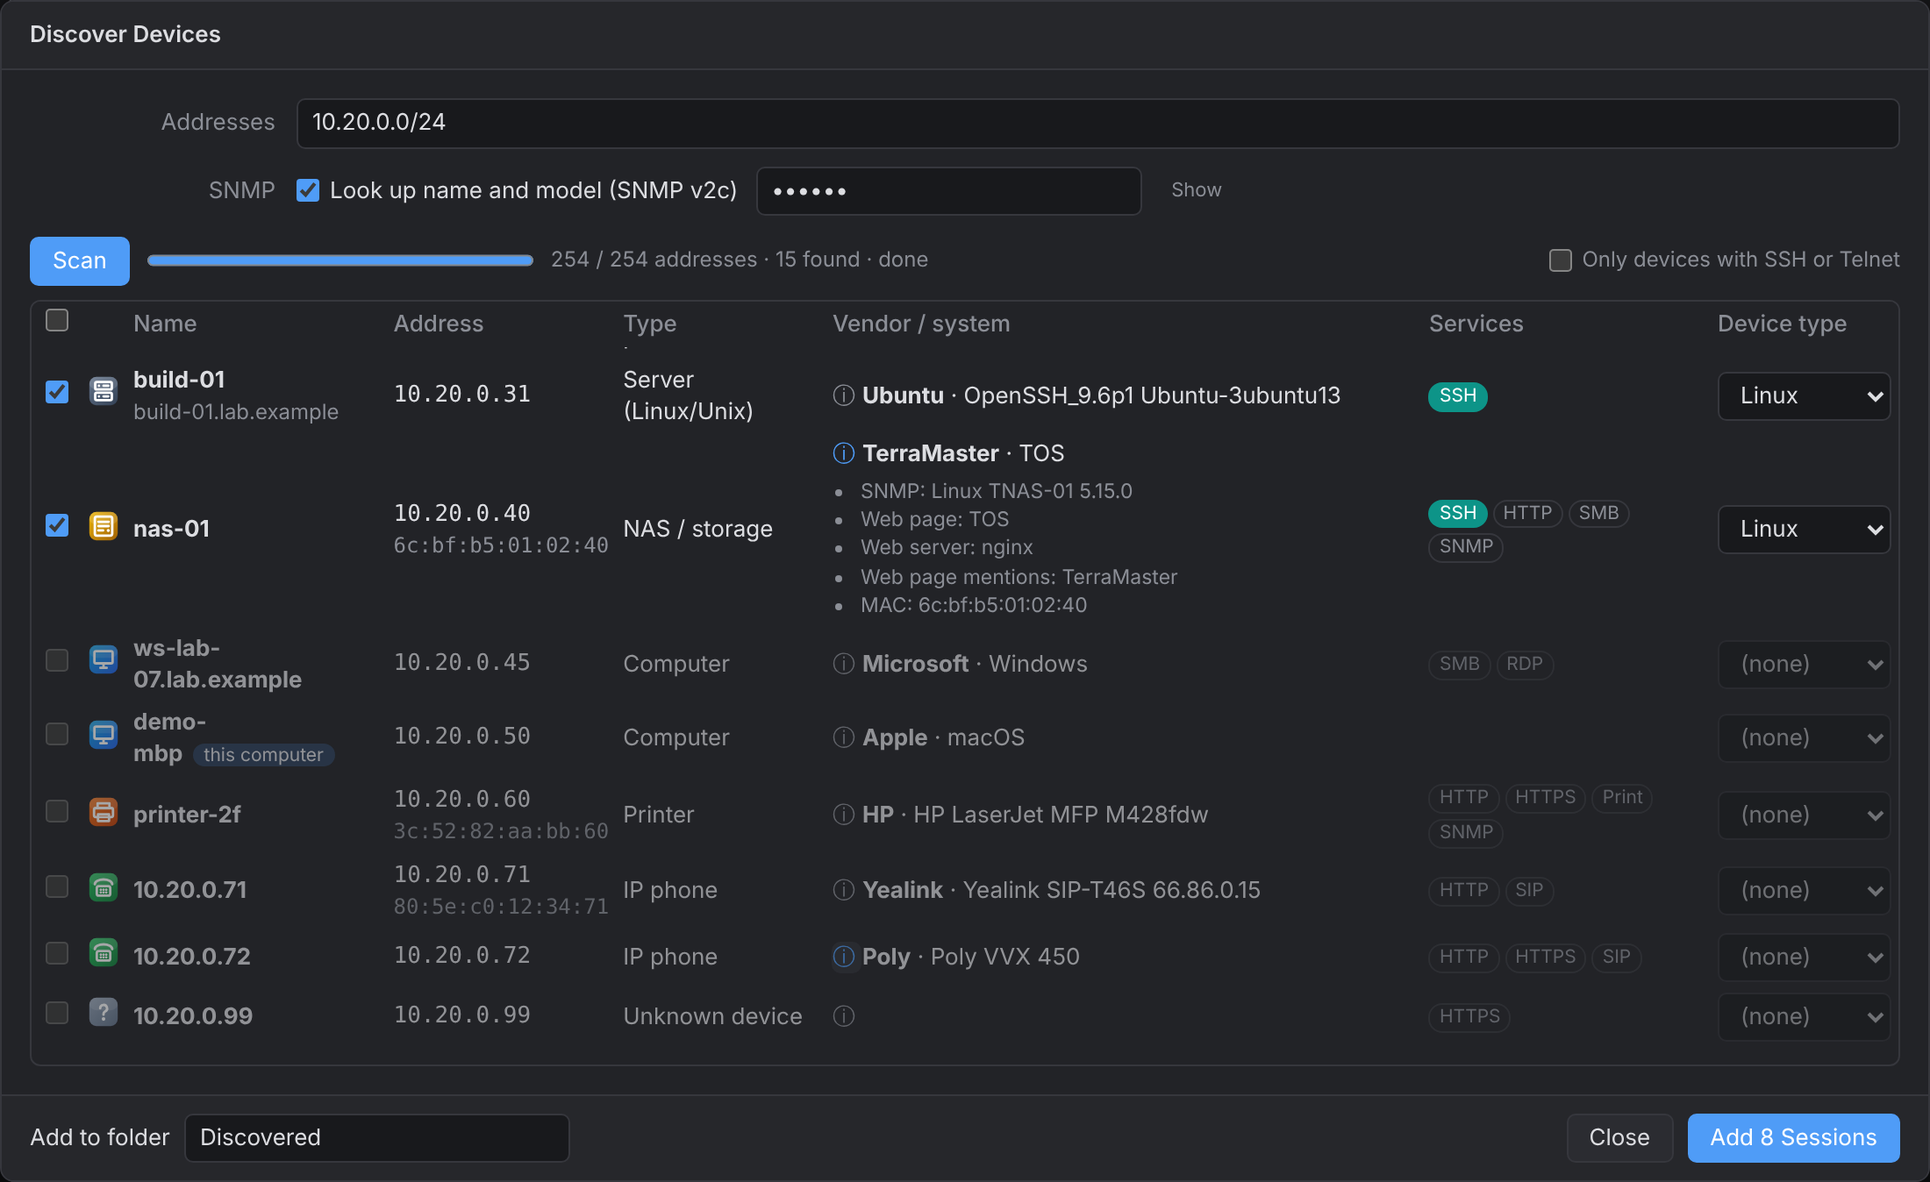
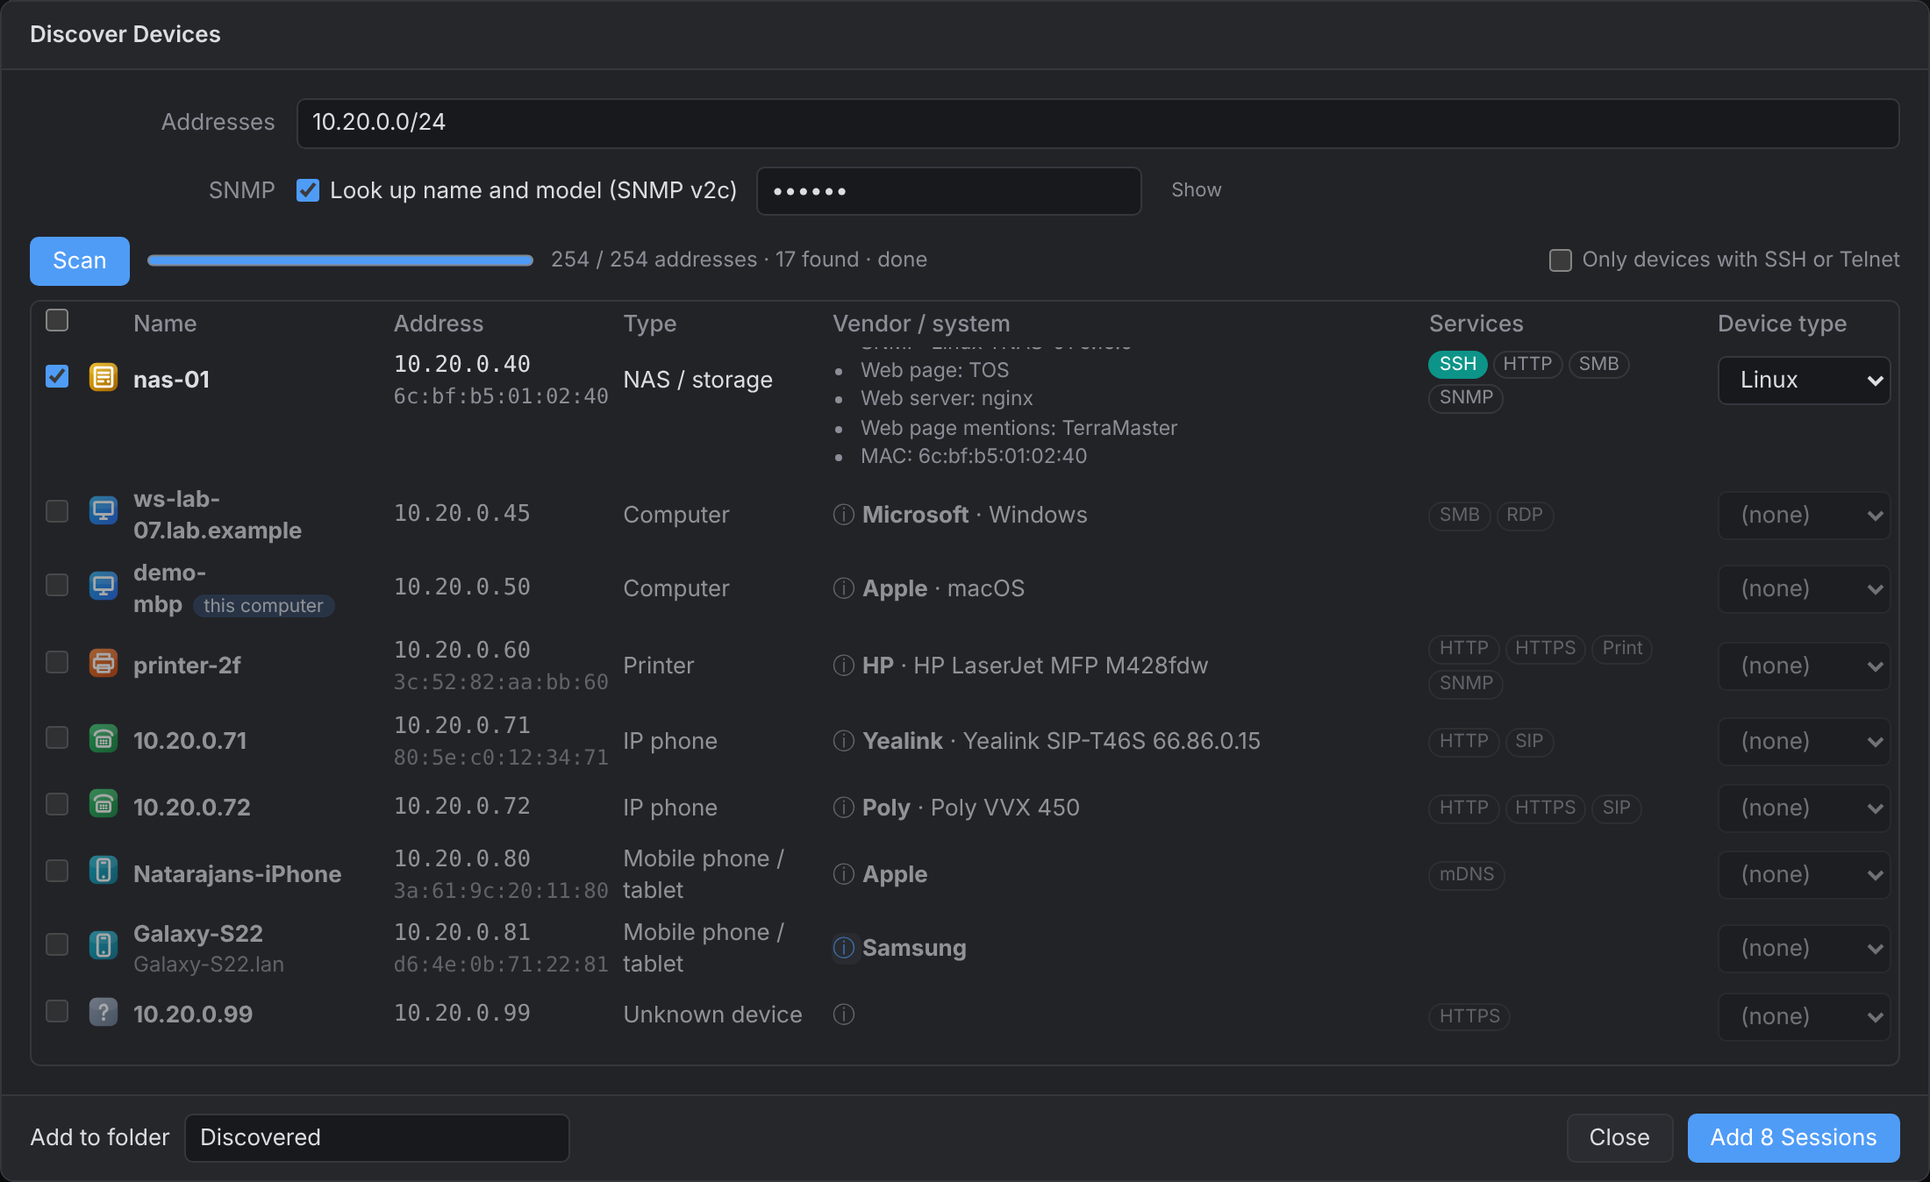
Discover Devices: mobile phones and tablets
- Unicast mDNS (Bonjour) reverse lookup: devices answer with their own
  name (e.g. "Natarajans-iPhone"); used for the name and the kind
- New "mobile" kind and icon: iPhone/iPad/Galaxy/Pixel/Redmi/OnePlus …
  in mDNS or DNS names; a phone maker's MAC address without open ports;
  a private (random) MAC address without open ports (Android and iOS use
  one per Wi-Fi network, so no vendor list can name it) - detected even
  without the IEEE list
- DNS name is now evidence too; MacBook/iMac names are computers
- Docs (legend, mDNS), changelog, screenshots

diff --git a/frontend/src/app/components/device-icon.ts b/frontend/src/app/components/device-icon.ts
@@ -1,7 +1,7 @@
 import { Component, computed, input } from '@angular/core';
 
 /** Kinds of discovered devices. */
-export type DeviceKind = 'computer' | 'server' | 'nas' | 'phone' | 'printer' | 'switch' | 'router' | 'firewall' | 'wireless' | 'unknown';
+export type DeviceKind = 'computer' | 'server' | 'nas' | 'phone' | 'mobile' | 'printer' | 'switch' | 'router' | 'firewall' | 'wireless' | 'unknown';
 
 export const DEVICE_KINDS: Record<DeviceKind, { from: string; to: string; label: string }> = {
   switch: { from: '#14b8a6', to: '#0f766e', label: 'Network switch' },
@@ -12,6 +12,7 @@ export const DEVICE_KINDS: Record<DeviceKind, { from: string; to: string; label:
   computer: { from: '#0ea5e9', to: '#2563eb', label: 'Computer' },
   nas: { from: '#eab308', to: '#a16207', label: 'NAS / storage' },
   phone: { from: '#22c55e', to: '#15803d', label: 'IP phone' },
+  mobile: { from: '#06b6d4', to: '#0e7490', label: 'Mobile phone / tablet' },
   printer: { from: '#f97316', to: '#c2410c', label: 'Printer' },
   unknown: { from: '#94a3b8', to: '#64748b', label: 'Unknown device' },
 };
@@ -35,6 +36,7 @@ export const DEVICE_KINDS: Record<DeviceKind, { from: string; to: string; label:
           @case ('server') { <rect x="3.8" y="3.4" width="8.4" height="3.8" rx=".8" /><rect x="3.8" y="8.8" width="8.4" height="3.8" rx=".8" /><path d="M5.7 5.3h.01M5.7 10.7h.01M8 5.3h2.4M8 10.7h2.4" /> }
           @case ('nas') { <rect x="3.6" y="3.2" width="8.8" height="9.6" rx="1" /><path d="M5.4 5.8h5.2M5.4 8h5.2M5.4 10.2h2.4" /><path d="M10.4 10.2h.01" stroke-width="1.6" /> }
           @case ('phone') { <path d="M3.6 6.4c0-1.4 2-2.4 4.4-2.4s4.4 1 4.4 2.4" /><rect x="4.6" y="7.4" width="6.8" height="4.8" rx="1" /><path d="M6.6 9.2h.01M8 9.2h.01M9.4 9.2h.01M6.6 10.6h.01M8 10.6h.01M9.4 10.6h.01" stroke-width="1.3" /> }
+          @case ('mobile') { <rect x="5" y="2.6" width="6" height="10.8" rx="1.3" /><path d="M7.2 4.4h1.6" /><path d="M8 11.6h.01" stroke-width="1.6" /> }
           @case ('printer') { <path d="M5 6V3.6h6V6" /><rect x="3.2" y="6" width="9.6" height="4.6" rx=".9" /><path d="M5.2 9.2h5.6v3.4H5.2z" /> }
           @case ('switch') { <rect x="2.6" y="5.4" width="10.8" height="5.2" rx=".9" /><path d="M4.6 8h.01M6.4 8h.01M8.2 8h.01M10 8h.01M11.6 8h.01" stroke-width="1.6" /> }
           @case ('router') { <circle cx="8" cy="8" r="4.8" /><path d="M5.6 6.7h4.6l-1.3-1.3M10.4 9.3H5.8l1.3 1.3" /> }

diff --git a/frontend/src/app/dialogs/discover-dialog.ts b/frontend/src/app/dialogs/discover-dialog.ts
@@ -218,7 +218,7 @@ export class DiscoverDialog implements OnDestroy {
   allSelected() { const a = this.shown().filter(r => r.protocol); return a.length > 0 && a.every(r => r.selected); }
   kindLabel(k: string) { return DEVICE_KINDS[k as DeviceKind]?.label ?? 'Unknown device'; }
   svcLabel(s: string) {
-    return ({ ssh: 'SSH', telnet: 'Telnet', http: 'HTTP', https: 'HTTPS', smb: 'SMB', rdp: 'RDP', printer: 'Print', ipp: 'IPP', sip: 'SIP', 'sip-udp': 'SIP', snmp: 'SNMP' } as Record<string, string>)[s] ?? s;
+    return ({ ssh: 'SSH', telnet: 'Telnet', http: 'HTTP', https: 'HTTPS', smb: 'SMB', rdp: 'RDP', printer: 'Print', ipp: 'IPP', sip: 'SIP', 'sip-udp': 'SIP', mdns: 'mDNS', snmp: 'SNMP' } as Record<string, string>)[s] ?? s;
   }
 
   private loadAck() { try { return localStorage.getItem(ACK_KEY) === '1'; } catch { return false; } }

diff --git a/frontend/src/app/core/models.ts b/frontend/src/app/core/models.ts
@@ -93,7 +93,7 @@ export interface UpdateInfo {
 export interface DiscoverResult {
   ip: string; name: string; dns: string; sysName: string; sysDescr: string; sysObjectId: string; services: string[];
   banner: string; telnet: string; web: { server: string; title: string; realm: string; cert: string; hints: string[] | null };
-  sip: string; mac: string; macVendor: string; self: boolean; kind: string; vendor: string; os: string; evidence: string[] | null;
+  sip: string; mdns: string; mac: string; macVendor: string; self: boolean; kind: string; vendor: string; os: string; evidence: string[] | null;
   protocol: string; port: number;
 }
 

diff --git a/internal/discover/classify.go b/internal/discover/classify.go
@@ -11,6 +11,7 @@ const (
 	KindServer   = "server"
 	KindNAS      = "nas"
 	KindPhone    = "phone"
+	KindMobile   = "mobile"
 	KindPrinter  = "printer"
 	KindSwitch   = "switch"
 	KindRouter   = "router"
@@ -45,7 +46,12 @@ var rules = []rule{
 	r(`\bvoss\b|vsp-?\d{3,4}|fabric ?engine|virtual services platform|ethernet routing switch|\bers[- ]?\d{4}`, KindSwitch, "Extreme Networks"),
 	r(`extremecloud|extremewireless|\bap\d{3,4}[a-z]*\b.*extreme|extreme.*access point`, KindWireless, "Extreme Networks"),
 	r(`extreme networks|enterasys`, KindSwitch, "Extreme Networks"),
-	// phones
+	// mobile phones and tablets (names they give themselves or get from DHCP)
+	r(`iphone|ipad|ipod`, KindMobile, "Apple"), r(`galaxy|\bsm-[a-z]\d{3}|samsung[- ]?(phone|tab)`, KindMobile, "Samsung"),
+	r(`\bpixel[- ]?\d|google[- ]pixel`, KindMobile, "Google"), r(`oneplus`, KindMobile, "OnePlus"), r(`xiaomi|redmi|\bpoco\b`, KindMobile, "Xiaomi"),
+	r(`\boppo\b|realme|\bvivo\b`, KindMobile, ""), r(`motorola|\bmoto[- ]?[a-z]\d`, KindMobile, "Motorola"), r(`android|\bphone\b|\btablet\b`, KindMobile, ""),
+	r(`macbook|\bimac\b|mac-?mini|mac-?studio|mac-?pro`, KindComputer, "Apple"),
+	// IP desk phones
 	r(`yealink`, KindPhone, "Yealink"), r(`polycom|\bvvx\b|soundpoint|\bpoly (ccx|edge|vvx)`, KindPhone, "Poly"),
 	r(`grandstream`, KindPhone, "Grandstream"), r(`\bsnom\b`, KindPhone, "Snom"), r(`mitel`, KindPhone, "Mitel"),
 	r(`fanvil`, KindPhone, "Fanvil"), r(`gigaset`, KindPhone, "Gigaset"), r(`cisco ip phone|\bcp-\d{4}`, KindPhone, "Cisco"),
@@ -78,6 +84,9 @@ var rules = []rule{
 	r(`ubuntu`, KindServer, "Ubuntu"), r(`debian`, KindServer, "Debian"), r(`red ?hat|rhel`, KindServer, "Red Hat"),
 	r(`centos|rocky|alma|fedora|suse|amazon linux|linux|freebsd|openbsd`, KindServer, ""),
 }
+
+// MAC vendors of phone makers, used only for devices without open ports.
+var macMobile = regexp.MustCompile(`(?i)samsung|xiaomi|oneplus|oppo|vivo mobile|huawei device|honor device|motorola mobility|google|realme|nothing technology`)
 
 // MAC vendors that tell the kind on their own.
 var macKinds = []rule{
@@ -132,7 +141,12 @@ func classify(res *Result) {
 		srcs = append(srcs, src{"Web", web})
 	}
 	add("Telnet", res.Telnet)
+	add("mDNS name", res.MDNS)
 	add("SSH", res.Banner)
+	if res.DNS != "" {
+		srcs = append(srcs, src{"DNS", res.DNS})
+		ev("DNS name: " + res.DNS)
+	}
 	if res.MAC != "" {
 		label := res.MAC
 		if res.MACVendor != "" {
@@ -172,6 +186,16 @@ func classify(res *Result) {
 	}
 	if !decided && res.SIP != "" {
 		res.Kind, decided = KindPhone, true // anything that answers SIP is a phone or a phone adapter
+	}
+	quiet := len(res.Services) == 0 || (len(res.Services) == 1 && res.Services[0] == "mdns")
+	if !decided && quiet && macMobile.MatchString(res.MACVendor) {
+		res.Kind, decided = KindMobile, true
+		res.Evidence = append(res.Evidence, "phone maker's MAC address and no open ports")
+	}
+	if !decided && quiet && strings.HasPrefix(res.MACVendor, "private") {
+		// Android and iOS use a random MAC address per Wi-Fi network by default
+		res.Kind, decided = KindMobile, true
+		res.Evidence = append(res.Evidence, "private (random) MAC address and no open ports: phones and tablets use these on Wi-Fi")
 	}
 	if !decided && res.MACVendor != "" {
 		for _, ru := range macKinds {

diff --git a/internal/discover/mdns.go b/internal/discover/mdns.go
@@ -1,0 +1,115 @@
+package discover
+
+import (
+	"context"
+	"encoding/binary"
+	"errors"
+	"net"
+	"net/netip"
+	"strconv"
+	"strings"
+	"time"
+)
+
+// mdnsName asks a device for its own name with a unicast mDNS (Bonjour)
+// reverse lookup on UDP 5353 ("4.3.2.1.in-addr.arpa" PTR). Apple devices,
+// many printers, NAS boxes and smart devices answer with names such as
+// "Natarajans-iPhone.local". It returns "" when nothing answers.
+func mdnsName(ctx context.Context, a netip.Addr, port int, timeout time.Duration) string {
+	v := a.As4()
+	q := strconv.Itoa(int(v[3])) + "." + strconv.Itoa(int(v[2])) + "." + strconv.Itoa(int(v[1])) + "." + strconv.Itoa(int(v[0])) + ".in-addr.arpa"
+	msg := []byte{0x12, 0x34, 0, 0, 0, 1, 0, 0, 0, 0, 0, 0} // id, flags, 1 question
+	for _, l := range strings.Split(q, ".") {
+		msg = append(append(msg, byte(len(l))), l...)
+	}
+	msg = append(msg, 0, 0, 12, 0x80, 1) // PTR, class IN with the "unicast response" bit
+	var d net.Dialer
+	c, err := d.DialContext(ctx, "udp", netip.AddrPortFrom(a, uint16(port)).String())
+	if err != nil {
+		return ""
+	}
+	defer c.Close()
+	_ = c.SetDeadline(time.Now().Add(timeout))
+	if _, err := c.Write(msg); err != nil {
+		return ""
+	}
+	buf := make([]byte, 1500)
+	n, err := c.Read(buf)
+	if err != nil {
+		return ""
+	}
+	name, err := firstPTR(buf[:n])
+	if err != nil {
+		return ""
+	}
+	return strings.TrimSuffix(strings.TrimSuffix(name, "."), ".local")
+}
+
+// firstPTR returns the target of the first PTR record in a DNS answer.
+func firstPTR(m []byte) (string, error) {
+	if len(m) < 12 || m[2]&0x80 == 0 {
+		return "", errors.New("not a DNS response")
+	}
+	qd, an := int(binary.BigEndian.Uint16(m[4:])), int(binary.BigEndian.Uint16(m[6:]))
+	off := 12
+	for i := 0; i < qd; i++ {
+		_, n, err := dnsName(m, off)
+		if err != nil {
+			return "", err
+		}
+		off = n + 4
+	}
+	for i := 0; i < an; i++ {
+		_, n, err := dnsName(m, off)
+		if err != nil || n+10 > len(m) {
+			return "", errors.New("bad DNS answer")
+		}
+		typ, rdlen := binary.BigEndian.Uint16(m[n:]), int(binary.BigEndian.Uint16(m[n+8:]))
+		rd := n + 10
+		if rd+rdlen > len(m) {
+			return "", errors.New("bad DNS answer")
+		}
+		if typ == 12 {
+			name, _, err := dnsName(m, rd)
+			return name, err
+		}
+		off = rd + rdlen
+	}
+	return "", errors.New("no PTR record")
+}
+
+// dnsName reads a (possibly compressed) name at off and returns it with the
+// offset after it.
+func dnsName(m []byte, off int) (string, int, error) {
+	var labels []string
+	end := -1
+	for jumps := 0; jumps < 16; {
+		if off >= len(m) {
+			return "", 0, errors.New("short name")
+		}
+		l := int(m[off])
+		switch {
+		case l == 0:
+			if end < 0 {
+				end = off + 1
+			}
+			return strings.Join(labels, "."), end, nil
+		case l&0xc0 == 0xc0:
+			if off+1 >= len(m) {
+				return "", 0, errors.New("short pointer")
+			}
+			if end < 0 {
+				end = off + 2
+			}
+			off = int(binary.BigEndian.Uint16(m[off:]) & 0x3fff)
+			jumps++
+		default:
+			if off+1+l > len(m) {
+				return "", 0, errors.New("short label")
+			}
+			labels = append(labels, printable(string(m[off+1:off+1+l])))
+			off += 1 + l
+		}
+	}
+	return "", 0, errors.New("name loop")
+}

diff --git a/internal/discover/scan.go b/internal/discover/scan.go
@@ -32,6 +32,7 @@ type Options struct {
 	Community string        // SNMP v2c community; "" = no SNMP
 	SNMPPort  int           // default 161
 	SIPPort   int           // UDP SIP OPTIONS; default 5060, -1 = off
+	MDNSPort  int           // unicast mDNS name query; default 5353, -1 = off
 	NoDNS     bool
 	NoWeb     bool // skip reading web pages
 	NoARP     bool // skip the neighbour (ARP) table
@@ -50,7 +51,8 @@ type Result struct {
 	Banner      string   `json:"banner"`   // SSH greeting
 	Telnet      string   `json:"telnet"`   // Telnet banner / login prompt
 	Web         WebInfo  `json:"web"`
-	SIP         string   `json:"sip"` // SIP User-Agent / Server
+	SIP         string   `json:"sip"`  // SIP User-Agent / Server
+	MDNS        string   `json:"mdns"` // the name the device gives itself (mDNS / Bonjour)
 	MAC         string   `json:"mac"`
 	MACVendor   string   `json:"macVendor"`
 	Self        bool     `json:"self"` // this computer
@@ -80,6 +82,9 @@ func Scan(ctx context.Context, addrs []netip.Addr, opt Options, found func(Resul
 	}
 	if opt.SIPPort == 0 {
 		opt.SIPPort = 5060
+	}
+	if opt.MDNSPort == 0 {
+		opt.MDNSPort = 5353
 	}
 	self := localAddrs()
 	jobs := make(chan netip.Addr)
@@ -150,8 +155,12 @@ feed:
 
 // finish names and classifies a result.
 func finish(r *Result, opt Options) {
-	if r.MAC != "" && opt.OUI != nil {
-		r.MACVendor = opt.OUI.Vendor(r.MAC)
+	if r.MAC != "" {
+		// private (random) addresses are told by the address itself, without the vendor list
+		r.MACVendor = OUI(nil).Vendor(r.MAC)
+		if opt.OUI != nil {
+			r.MACVendor = opt.OUI.Vendor(r.MAC)
+		}
 	}
 	if r.Self {
 		if h, err := os.Hostname(); err == nil && r.SysName == "" {
@@ -161,6 +170,8 @@ func finish(r *Result, opt Options) {
 	switch {
 	case r.SysName != "":
 		r.Name = r.SysName
+	case r.MDNS != "":
+		r.Name = r.MDNS
 	case r.DNS != "":
 		r.Name = r.DNS
 	default:
@@ -258,6 +269,18 @@ func scanHost(ctx context.Context, a netip.Addr, opt Options) (Result, bool) {
 			}
 		}()
 	}
+	if opt.MDNSPort > 0 {
+		wg.Add(1)
+		go func() {
+			defer wg.Done()
+			if name := mdnsName(ctx, a, opt.MDNSPort, opt.Timeout+400*time.Millisecond); name != "" {
+				mu.Lock()
+				open["mdns"] = true
+				r.MDNS = name
+				mu.Unlock()
+			}
+		}()
+	}
 	wg.Wait()
 	if !opt.NoWeb && len(webPorts) > 0 && ctx.Err() == nil {
 		// one page is enough: HTTPS first (it also has a certificate), then HTTP
@@ -286,7 +309,7 @@ func scanHost(ctx context.Context, a netip.Addr, opt Options) (Result, bool) {
 	if len(open) == 0 {
 		return r, false
 	}
-	for _, s := range append(serviceOrder(opt.Probes), "snmp", "sip-udp") {
+	for _, s := range append(serviceOrder(opt.Probes), "snmp", "sip-udp", "mdns") {
 		if open[s] {
 			r.Services = append(r.Services, s)
 			delete(open, s)

diff --git a/internal/discover/discover_test.go b/internal/discover/discover_test.go
@@ -277,6 +277,12 @@ func TestClassify(t *testing.T) {
 		{Result{MAC: "00:15:65:12:34:56", MACVendor: "XIAMEN YEALINK NETWORK TECHNOLOGY CO.,LTD."}, KindPhone},
 		{Result{Web: WebInfo{Title: "HP LaserJet MFP M428fdw"}, Services: []string{"http", "https", "printer"}}, KindPrinter},
 		{Result{Self: true, Services: []string{"ssh"}}, KindComputer},
+		{Result{MAC: "6a:1f:22:33:44:55", MACVendor: "private (randomised) address"}, KindMobile},
+		{Result{DNS: "Galaxy-S22.lan"}, KindMobile},
+		{Result{MDNS: "Natarajans-iPhone", Services: []string{"mdns"}}, KindMobile},
+		{Result{MDNS: "Natarajans-MacBook-Pro", Services: []string{"mdns"}}, KindComputer},
+		{Result{MAC: "8c:79:f5:00:00:01", MACVendor: "Samsung Electronics Co.,Ltd"}, KindMobile},
+		{Result{MAC: "8c:79:f5:00:00:01", MACVendor: "Samsung Electronics Co.,Ltd", Services: []string{"http"}}, KindUnknown},
 	} {
 		r := c.r
 		classify(&r)
@@ -301,5 +307,36 @@ func TestSelfListed(t *testing.T) {
 		NoDNS: true, NoARP: true, SIPPort: -1}, func(r Result) { got = append(got, r) }, nil)
 	if len(got) != 1 || !got[0].Self || got[0].Kind != KindComputer || got[0].Name == "" {
 		t.Fatalf("%+v", got)
+	}
+}
+
+// A device answering the unicast mDNS reverse lookup with its own name.
+func TestMDNSName(t *testing.T) {
+	pc, err := net.ListenPacket("udp", "127.0.0.1:0")
+	if err != nil {
+		t.Fatal(err)
+	}
+	defer pc.Close()
+	go func() {
+		buf := make([]byte, 1500)
+		n, from, err := pc.ReadFrom(buf)
+		if err != nil || n < 12 {
+			return
+		}
+		q := buf[12:n] // the question, echoed back
+		ans := []byte{0xc0, 12, 0, 12, 0, 1, 0, 0, 0, 120}
+		rd := []byte{}
+		for _, l := range []string{"Natarajans-iPhone", "local"} {
+			rd = append(append(rd, byte(len(l))), l...)
+		}
+		rd = append(rd, 0)
+		ans = append(ans, byte(len(rd)>>8), byte(len(rd)))
+		ans = append(ans, rd...)
+		resp := append([]byte{buf[0], buf[1], 0x84, 0, 0, 1, 0, 1, 0, 0, 0, 0}, q...)
+		_, _ = pc.WriteTo(append(resp, ans...), from)
+	}()
+	name := mdnsName(context.Background(), netip.MustParseAddr("127.0.0.1"), pc.LocalAddr().(*net.UDPAddr).Port, time.Second)
+	if name != "Natarajans-iPhone" {
+		t.Fatalf("mdns name %q", name)
 	}
 }

diff --git a/docs/USER_GUIDE.md b/docs/USER_GUIDE.md
@@ -212,7 +212,8 @@ When a connection drops the tab shows `[Disconnected] Press Enter to reconnect`.
    - **SSH greeting** (e.g. `OpenSSH_8.1`, `Mocana SSH`) and the **Telnet banner and login prompt** (Termwright answers the Telnet option negotiation, so devices show their banner, e.g. `ExtremeXOS (X440G2…) version 31.7 / login:`).
    - **Web interface**: title of the start page, `Server` header, login realm, certificate owner, and product names on the page (ExtremeXOS, TerraMaster, Yealink, LaserJet, …).
    - **SIP** (UDP 5060): phones answer with their model and firmware, e.g. `Yealink SIP-T46S 66.86.0.15`.
-   - **SNMP** system name, description and vendor number; **DNS** name.
+   - **SNMP** system name, description and vendor number; **DNS** name (home routers often register phone names such as `Galaxy-S22`).
+   - **mDNS (Bonjour) name**: many devices answer with the name they give themselves, e.g. `Natarajans-iPhone`, a printer or NAS name.
    - **MAC address** of devices on your own subnet (from your computer's ARP table) - this also finds live devices with no open port. With the **MAC vendor list** (*Download the MAC vendor list*: the IEEE registry, about 3 MB, saved in the data folder) the maker is shown too.
    - **This computer** is listed and marked *this computer*.
 
@@ -232,6 +233,7 @@ When a connection drops the tab shows `[Disconnected] Press Enter to reconnect`.
    | <img src="assets/device-server.svg" width="16"> | Server (Linux/Unix) | Linux/BSD in SNMP or the SSH greeting, ESXi/Proxmox, iDRAC/iLO; SSH with file sharing |
    | <img src="assets/device-nas.svg" width="16"> | NAS / storage | TerraMaster, Synology, QNAP, TrueNAS, ReadyNAS, ASUSTOR, WD My Cloud (web page, SNMP or MAC) |
    | <img src="assets/device-computer.svg" width="16"> | Computer | Windows (SNMP, RDP, SMB without SSH), Apple MAC addresses, this computer |
+   | <img src="assets/device-mobile.svg" width="16"> | Mobile phone / tablet | names such as iPhone, iPad, Galaxy, Pixel, Redmi, OnePlus (mDNS or DNS); a phone maker's MAC address with no open ports; a **private (random) MAC address** with no open ports - Android and iOS use one per Wi-Fi network, so the maker cannot be read from it (no vendor list can name it) |
    | <img src="assets/device-phone.svg" width="16"> | IP phone | SIP answer, phone models (Yealink, Poly/Polycom, Grandstream, Snom, Mitel, Cisco, Avaya …), phone vendor MAC |
    | <img src="assets/device-printer.svg" width="16"> | Printer | printer models in SNMP or the web page (LaserJet, Brother, Canon, Epson …), printing ports |
    | <img src="assets/device-unknown.svg" width="16"> | Unknown device | nothing named it - open **ⓘ** to see what answered |

diff --git a/CHANGELOG.md b/CHANGELOG.md
@@ -7,6 +7,7 @@ All notable changes to Termwright. Each release on GitHub shows its section of t
 ## 0.12.4 (2026-10-26)
 
 * Neutral wording: the start page says **Import Sessions** (sessions can come from several terminal programs and inventories); README, About and Options no longer single out one product.
+* **Mobile phones and tablets** in Discover Devices: recognised from their mDNS (Bonjour) or DNS name (iPhone, Galaxy, Pixel …), a phone maker's MAC address, or a private (random) MAC address with no open ports - which Android and iOS use on Wi-Fi, so no vendor list can name them. New mobile icon; devices are also named from mDNS.
 * `scripts/watch-build.sh [tag]` follows a GitHub build from the terminal: every job, its current step and time (GitHub CLI if installed, otherwise the public API).
 
 ## 0.12.3 (2026-10-26)

diff --git a/README.md b/README.md
@@ -15,6 +15,7 @@ from inventories (CSV, Ansible, NetBox, AWS), and can export them again in the s
 
 ## What's new in 0.12.4
 
+* **Mobile phones and tablets** recognised in Discover Devices (mDNS/DNS names, private Wi-Fi MAC addresses).
 * **Import Sessions** on the start page: sessions come from several terminal programs and inventories.
 * `scripts/watch-build.sh` follows a GitHub build from the terminal.
 
